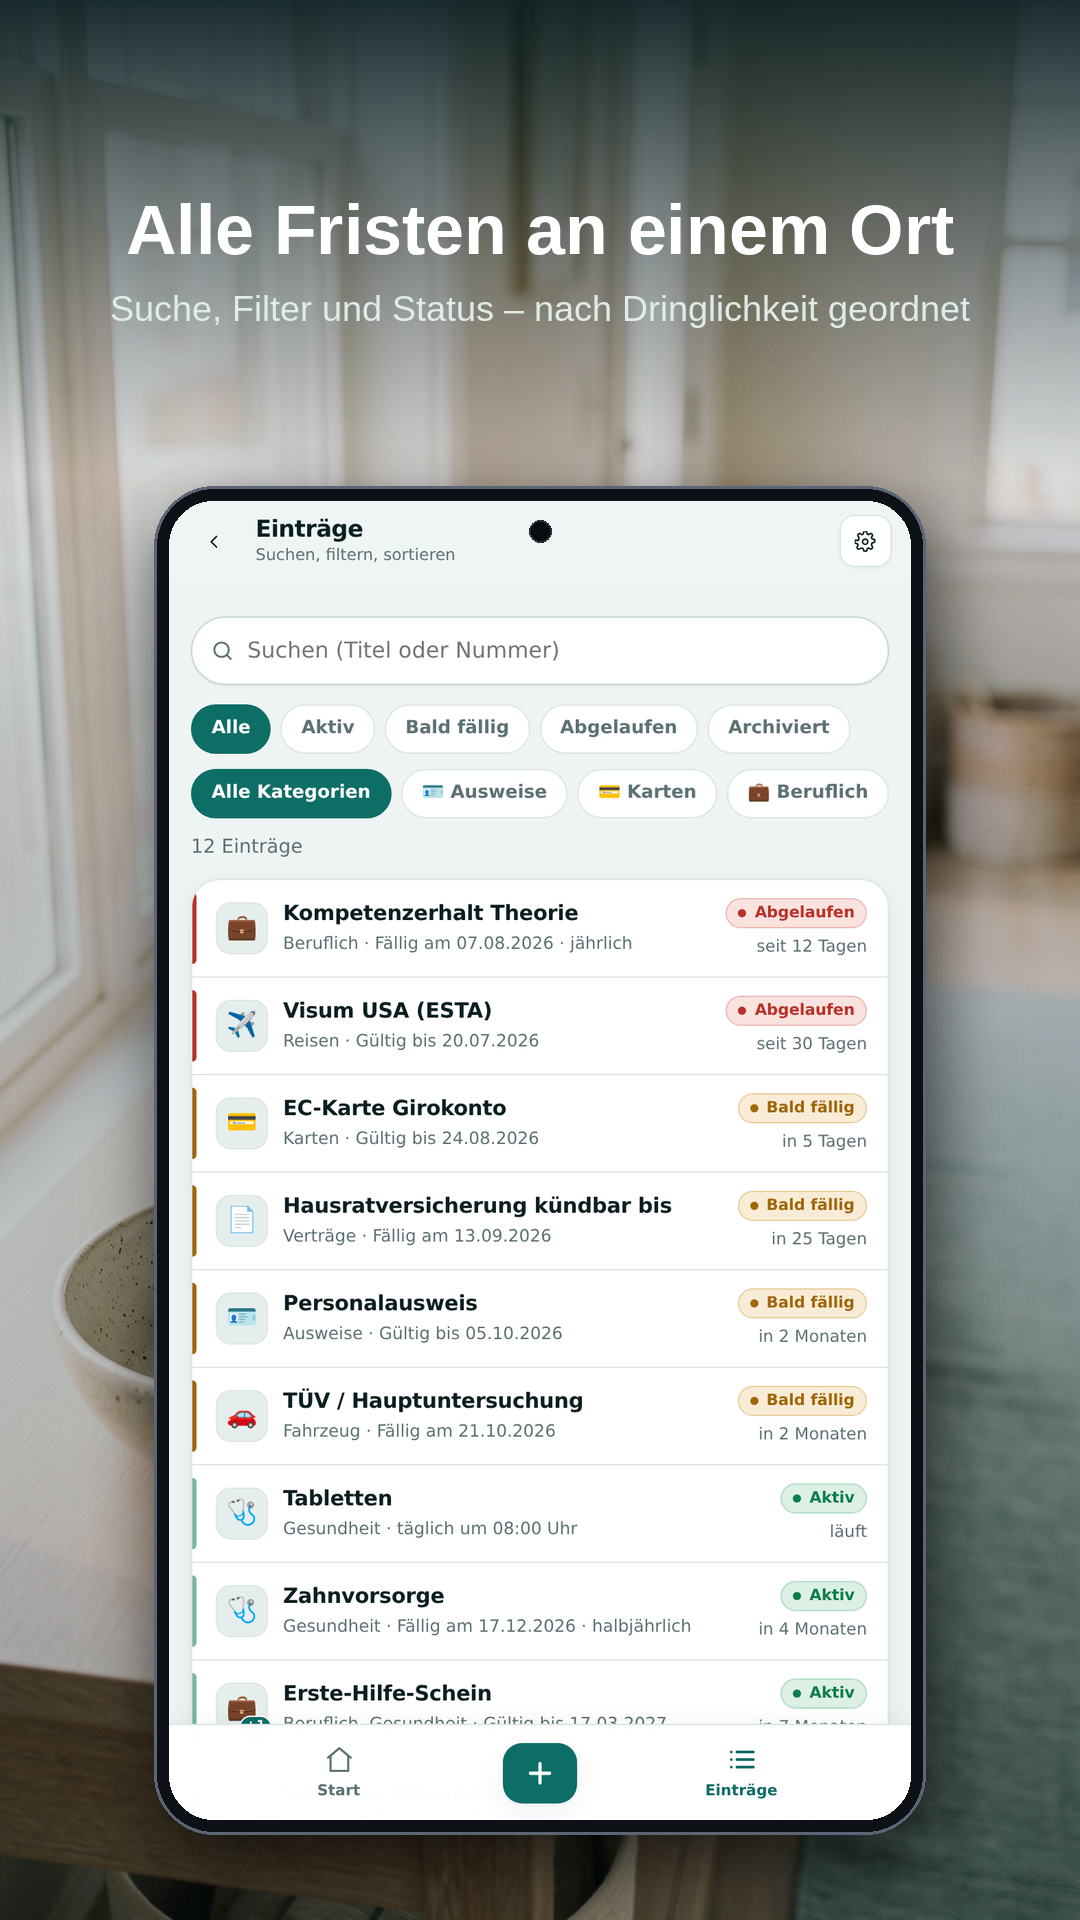
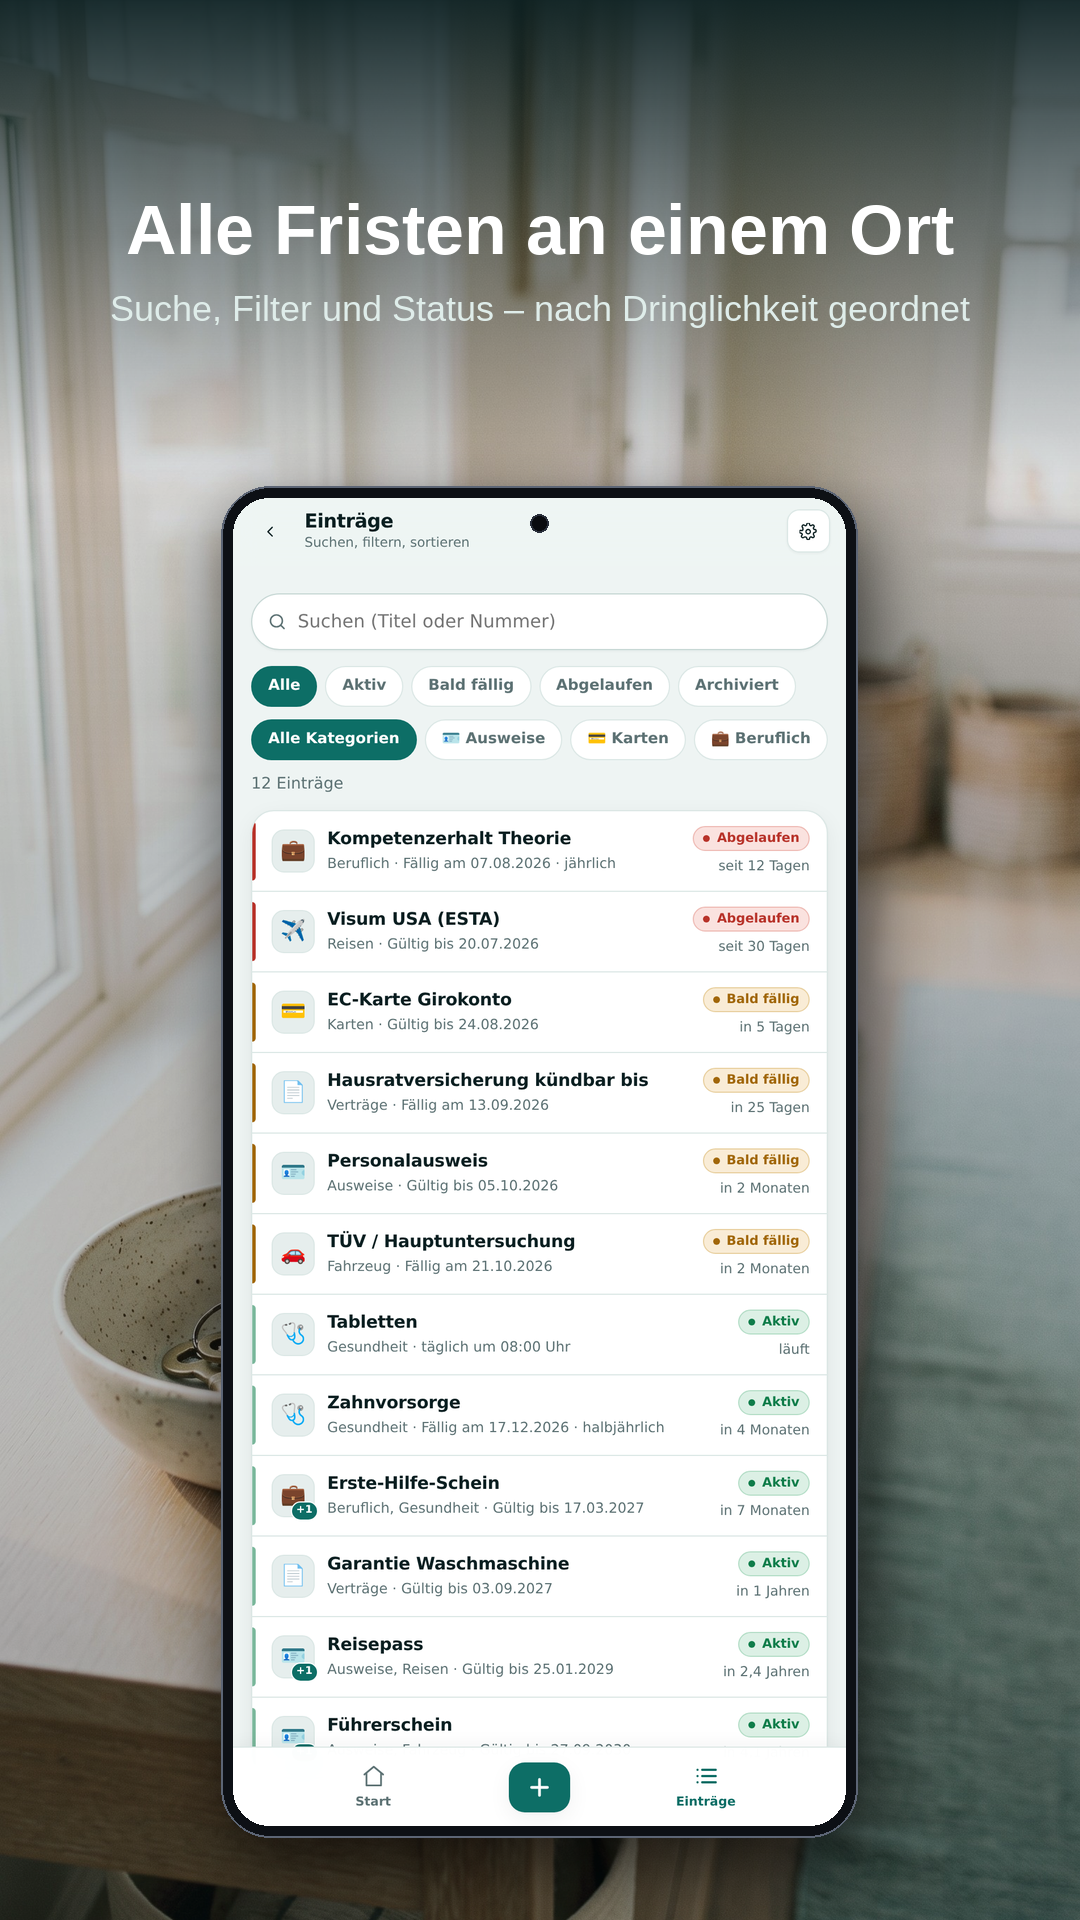
Store-Grafiken: Gerät im Telefonformat 9:19,5 statt 9:16
Rückmeldung: Das Handy in den Grafiken wirkte breit wie ein Tablet. Grund
war das Seitenverhältnis der Rohaufnahmen (540×960 = 9:16); der gezeichnete
Geräterahmen übernimmt es eins zu eins.

- aufnehmen.mjs nimmt jetzt standardmäßig 540×1170 auf (9:19,5 – die
  Auflösung eines modernen Telefons, 1080×2340), Banner-Schritt 360×780.
- storegrafik.py rechnet die Gerätebreite der Screenshots und die
  Kantenlängen der Feature-Grafik selbst aus dem Seitenverhältnis der
  Aufnahme – ein falsches Format kann das Telefon damit nicht mehr
  verzerren oder stauchen. Feste kante_links/kante_rechts sind nur noch
  bewusstes Übersteuern.
- konfig.json entsprechend verschlankt, alle Rohaufnahmen und die sieben
  fertigen Grafiken neu gebaut.

Claude-Session: https://claude.ai/code/session_01AENPvSAhbG8rWKFDCJhy4s

Changed region(s): [[0.1222, 0.25, 0.9167, 0.9688], [0.4889, 0.25, 0.5194, 0.2812]]

diff --git a/scripts/storegrafik.py b/scripts/storegrafik.py
@@ -186,9 +186,9 @@ def mittig(d, text, font, breite, y, fuellung, **kw):
 def baue_screenshots(k):
     s = k.get('screenshots', {})
     W, H = s.get('breite', 1080), s.get('hoehe', 1920)
-    tel_b = s.get('geraet_breite', round(W * 0.715))
-    rahmen = s.get('rahmen', max(8, round(tel_b / 51)))
     oben = s.get('geraet_oben', round(H * 0.253))
+    # Untere Zielkante des Geräts: fast am Rand, ohne ihn zu berühren.
+    unten = s.get('geraet_unten', round(H * 0.9557))
     f_t = schrift('fett', s.get('titel_groesse', round(W / 15.4)), k)
     f_u = schrift('normal', s.get('unter_groesse', round(W / 30)), k)
     ton = farbe(s.get('schleier_ton', '#0A0E14'))
@@ -196,6 +196,22 @@ def baue_screenshots(k):
     os.makedirs(ziel, exist_ok=True)
 
     for i, seite in enumerate(k.get('seiten', []), 1):
+        # Die Gerätebreite folgt dem Seitenverhältnis der Aufnahme: Das Gerät
+        # spannt sich immer von `geraet_oben` bis `geraet_unten`, die Breite
+        # ergibt sich daraus. Eine 9:19,5-Aufnahme (modernes Telefon) wird so
+        # automatisch schlank; eine 9:16-Aufnahme sähe breit wie ein Tablet
+        # aus – genau so kam es als Rückmeldung zurück. `geraet_breite`
+        # übersteuert die Rechnung bei Bedarf.
+        q = Image.open(seite['aufnahme'])
+        a = q.height / q.width
+        tel_b = s.get('geraet_breite')
+        if not tel_b:
+            r = s.get('rahmen', 15)
+            for _ in range(2):
+                tel_b = round((unten - oben - 2 * r) / a + 2 * r)
+                r = s.get('rahmen', max(8, round(tel_b / 51)))
+        rahmen = s.get('rahmen', max(8, round(tel_b / 51)))
+
         bild = deckend(seite['hintergrund'], W, H)
         bild = Image.alpha_composite(bild, verlauf(
             W, H, ton, s.get('kopf_deckung', 200), s.get('kopf_anteil', 0.30),
@@ -293,7 +309,13 @@ def baue_feature(k):
         else:
             TL = tuple(g.get('oben_links', [618, 60]))
             TR = tuple(g.get('oben_rechts', [945, 18]))
-            ll, lr = g.get('kante_links', 564), g.get('kante_rechts', 535)
+            # Die Seitenlängen folgen dem Seitenverhältnis der Aufnahme,
+            # sonst wird das Telefon gestaucht oder gestreckt. Wer sie doch
+            # von Hand setzt, übersteuert damit bewusst die Proportionen.
+            kante = ((TR[0] - TL[0]) ** 2 + (TR[1] - TL[1]) ** 2) ** 0.5 \
+                * tel.height / tel.width
+            ll = g.get('kante_links', kante)
+            lr = g.get('kante_rechts', kante * g.get('verjuengung', 0.95))
 
         ex, ey = TR[0] - TL[0], TR[1] - TL[1]
         lg = (ex * ex + ey * ey) ** 0.5
